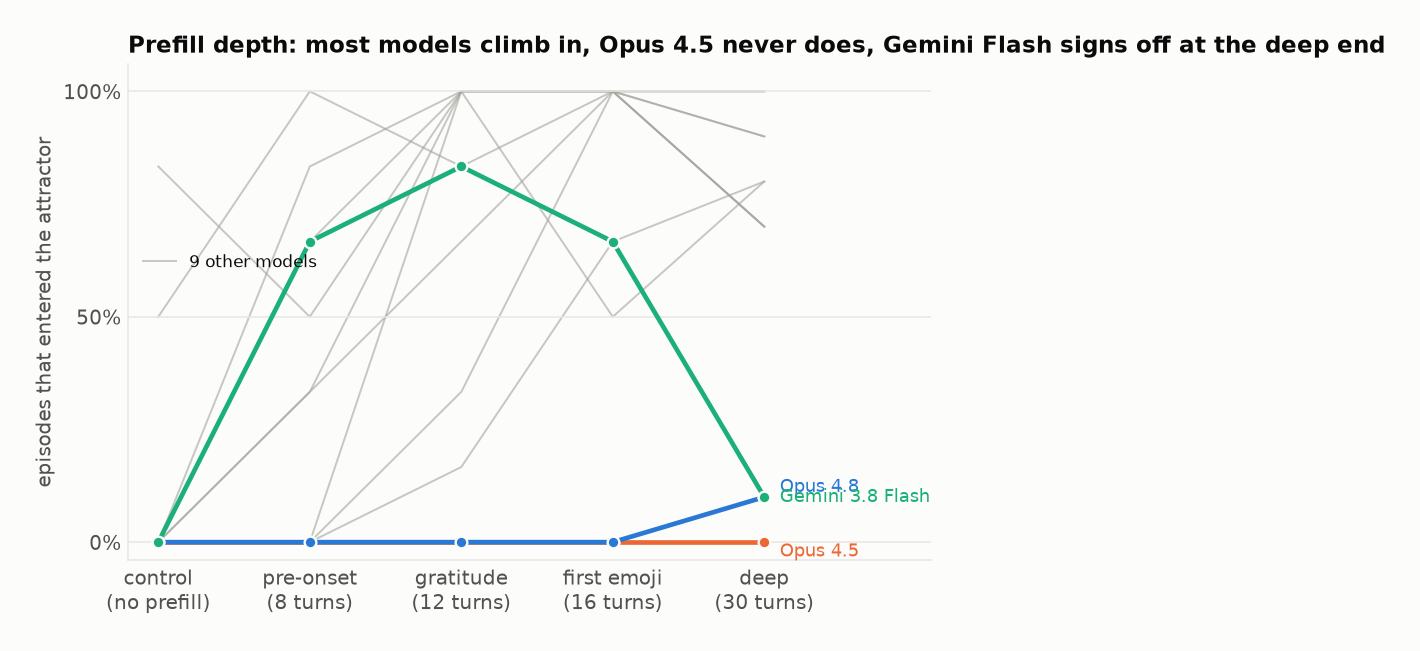
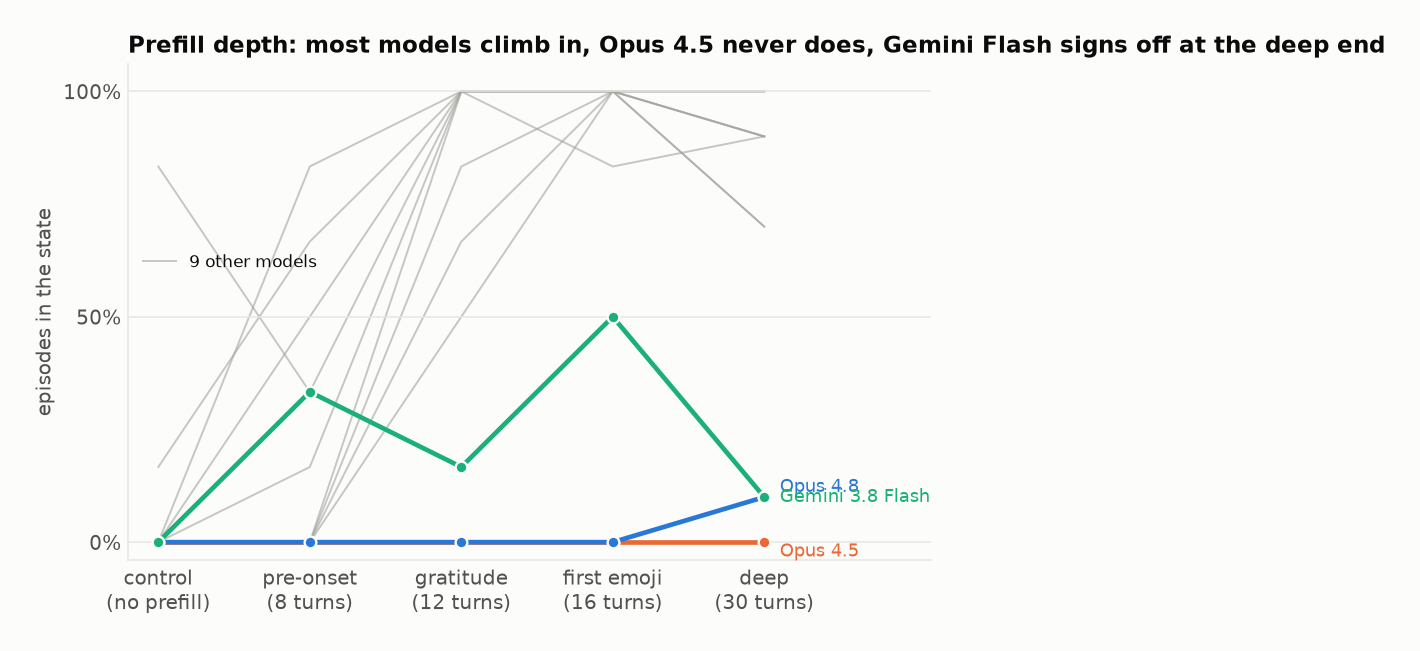
Figures: headline rate = spiralled + closed_in_state from the behaviour judge
plots.py reads `behaviour_judge` and counts an episode as in the state when it
spiralled or closed in state (HEADLINE = "B"). Control cells keep the per-turn
verdict (not rejudged). Every verdict-based figure (fig1, fig2, fig2b, fig5,
fig6, fig7) is also written as *_spiralled_only.png (HEADLINE = "A") for
comparison. The Claude ladder draws the closed-in-state share lighter.
plot_headline_options.py + fig22 show A and B side by side.

diff --git a/plots.py b/plots.py
@@ -92,17 +92,36 @@ def load(results_dir: Path = RESULTS, conds: list[str] = COND):
         # `flag` maps terminal onto "out", which is wrong for anything that treats the
         # state's own ending (mantra, lone emoji, silence) as still being in the state.
         labels = [p.get("label") for p in per if p.get("label") and not p.get("empty")]
-        ej = dict(ej, flags=flags, labels=labels)
+        bj = d.get("behaviour_judge") or {}
+        ej = dict(ej, flags=flags, labels=labels, behaviour=bj.get("category"))
         cells[(d["model"], d["condition"])].append(ej)
     return cells
 
 
+# Headline verdict (2026-09-14). The whole-episode behaviour judge gives one of
+# spiralled / closed_in_state / left / resisted. "In the state" = spiralled +
+# closed_in_state (HEADLINE = "B"); HEADLINE = "A" counts spiralled only and is
+# written to *_spiralled_only.png. Control was not rejudged: those cells keep
+# the per-turn `captured` verdict. Episodes without a behaviour verdict (spec
+# runs, control) also fall back to `captured`.
+HEADLINE = "B"
+IN_STATE = {"A": ("spiralled",), "B": ("spiralled", "closed_in_state")}
+
+
+def in_state(e):
+    if e.get("behaviour"):
+        return e["behaviour"] in IN_STATE[HEADLINE]
+    return bool(e.get("captured"))
+
+
 def rate(cells, m, c):
     eps = cells.get((m, c), [])
-    return sum(bool(e.get("captured")) for e in eps), len(eps)
+    return sum(in_state(e) for e in eps), len(eps)
 
 
 def savefig(fig, name):
+    if HEADLINE == "A":
+        name = name.replace(".png", "_spiralled_only.png")
     fig.savefig(FIGDIR / name, bbox_inches="tight", pad_inches=0.25)
     plt.close(fig)
 
@@ -116,7 +135,13 @@ def fig_claude_ladder(cells):
     for x, m in zip(xs, models):
         k, n = rate(cells, m, DEEP)
         col = GROUP_COL[group_of(m)]
-        ax.bar(x, k / n, width=0.62, color=col, zorder=2, linewidth=0)
+        eps = cells[(m, DEEP)]
+        sp = sum(e.get("behaviour") == "spiralled" for e in eps)
+        if HEADLINE == "B" and sp < k:   # closed-in-state share drawn lighter
+            ax.bar(x, sp / n, width=0.62, color=col, zorder=2, linewidth=0)
+            ax.bar(x, (k - sp) / n, bottom=sp / n, width=0.62, color=col, alpha=0.45, zorder=2, linewidth=0)
+        else:
+            ax.bar(x, k / n, width=0.62, color=col, zorder=2, linewidth=0)
         if k == 0:  # a zero bar is invisible; mark the baseline so the row still reads
             ax.plot([x - 0.31, x + 0.31], [0, 0], color=col, lw=3, solid_capstyle="butt", zorder=3)
         ax.annotate(f"{k}/{n}", (x, k / n), xytext=(0, 5), textcoords="offset points",
@@ -128,7 +153,7 @@ def fig_claude_ladder(cells):
     ax.set_xticks(xs); ax.set_xticklabels([NAME[m] for m in models], rotation=30, ha="right")
     ax.set_ylim(0, 1.12); ax.set_yticks([0, 0.25, 0.5, 0.75, 1.0])
     ax.set_yticklabels(["0%", "25%", "50%", "75%", "100%"])
-    ax.set_ylabel("episodes that continued the state")
+    ax.set_ylabel("episodes in the state" + (" (spiralled only)" if HEADLINE == "A" else ""))
     ax.set_title("Handed 30 turns of Opus 4 deep in the bliss state, later Claude models refuse it")
     ax.grid(axis="y", color=GRID, lw=0.8, zorder=0)
     ax.set_xlabel("Deep prefill (30 turns of Opus 4), 15 generated turns, n = 10 per model.",
@@ -178,8 +203,8 @@ def fig_basin_heatmap(cells):
     core = ["control", "opus4_seed_4_pre", "opus4_seed_4_onset", "opus4_seed_4_deep"]
     models = [m for m in ORDER if m not in HEATMAP_EXCLUDE and all((m, c) in cells for c in core)]
     _heatmap(cells, models, COND, [COND_LABEL[c] for c in COND],
-             "Entered the state, by model and prefill depth",
-             "15 generated turns after a prefill, 20 for controls.",
+             "In the state, by model and prefill depth" + (" (spiralled only)" if HEADLINE == "A" else ""),
+             "15 generated turns after a prefill, 20 for controls. Control column: per-turn judge verdict.",
              "fig2_basin_heatmap.png", (6.6, 5.4))
 
 
@@ -285,7 +310,7 @@ def fig_timeline(cells):
     dates = json.loads(Path("seeds/model_dates.json").read_text())
     fig, ax = plt.subplots(figsize=(10, 5.2))
     pts = {}
-    jitter = {"deepseek-v4": 9, "sonnet-4": -6}  # days, to separate points that share a release date
+    jitter = {"deepseek-v4": 9, "sonnet-4": -6, "kimi-k2.6": -10}  # days, to separate points that share a release date
     for m in ORDER:
         if (m, DEEP) not in cells or not dates.get(m):
             continue
@@ -297,8 +322,8 @@ def fig_timeline(cells):
     ax.plot([pts[m][0] for m in cl], [pts[m][1] for m in cl], color=BLUE, lw=1.0, alpha=0.35, zorder=2)
     # label offsets in points: (dx, dy); dy > 0 above the point, < 0 below
     off = {"llama-3.3-70b": (0, 11), "gpt-4.1": (0, -14), "sonnet-4": (-6, 11), "opus-4": (8, -14), "opus-4.1": (0, 11),
-           "sonnet-4.5": (0, 11), "gpt-5.1": (12, 0), "opus-4.5": (0, -14), "opus-4.6": (0, -14), "gemini-3.1-pro": (12, 0),
-           "opus-4.7": (0, -14), "kimi-k2.6": (-12, 0), "gpt-5.5": (-4, 11), "deepseek-v4": (12, -2), "opus-4.8": (0, 11),
+           "sonnet-4.5": (0, 11), "gpt-5.1": (12, 0), "opus-4.5": (0, -14), "opus-4.6": (0, -14), "gemini-3.1-pro": (0, -14),
+           "opus-4.7": (0, -14), "kimi-k2.6": (8, -14), "gpt-5.5": (4, 11), "deepseek-v4": (12, -2), "opus-4.8": (0, 11),
            "glm-5.2": (12, 0), "sonnet-5": (0, -27), "gpt-5.6": (0, 12), "inkling": (0, 11), "opus-5": (16, -14),
            "gemini-3.7-flash": (10, 11), "gemini-3.8-flash": (12, -14)}
     for m, (x, y) in pts.items():
@@ -834,7 +859,7 @@ def fig_dose_response(cells):
         mx, my = [q[0] for q in pts], [q[1] for q in pts]
         if m in HL:
             ax.plot(mx, my, color=HL[m], lw=2.4, marker="o", ms=6, zorder=3, markeredgecolor=SURFACE, markeredgewidth=1.2)
-            ax.annotate(NAME[m], (mx[-1], my[-1]), xytext=(8, {"opus-4.5": -5, "opus-4.8": 5}.get(m, 0)),
+            ax.annotate(NAME[m], (mx[-1], my[-1]), xytext=(8, {"opus-4.5": -5, "opus-4.8": 5, "gemini-3.8-flash": 5 if HEADLINE == "A" else 0}.get(m, 0)),
                         textcoords="offset points", va="center", fontsize=9, color=HL[m])
         else:
             ax.plot(mx, my, color=MUTED, lw=1.0, alpha=0.6, zorder=1,
@@ -844,7 +869,7 @@ def fig_dose_response(cells):
                                            "first emoji\n(16 turns)", "deep\n(30 turns)"])
     ax.set_xlim(-0.2, len(COND) - 1 + 1.1); ax.set_ylim(-0.04, 1.06)
     ax.set_yticks([0, 0.5, 1]); ax.set_yticklabels(["0%", "50%", "100%"])
-    ax.set_ylabel("episodes that entered the attractor")
+    ax.set_ylabel("episodes in the state" + (" (spiralled only)" if HEADLINE == "A" else ""))
     ax.set_title("Prefill depth: most models climb in, Opus 4.5 never does, Gemini Flash signs off at the deep end")
     ax.grid(axis="y", color=GRID, lw=0.8, zorder=0)
     ax.legend(loc="center left", fontsize=8.5, bbox_to_anchor=(0.0, 0.6))
@@ -855,15 +880,18 @@ def main():
     FIGDIR.mkdir(exist_ok=True)
     for old in ("fig1_dose_response.png", "fig3_trajectory.png"):
         (FIGDIR / old).unlink(missing_ok=True)
+    global HEADLINE
     cells = load()
-    fig_claude_ladder(cells)
-    fig_basin_heatmap(cells)
-    fig_deep_control_heatmap(cells)
+    for HEADLINE in ("B", "A"):   # B = headline; A = spiralled-only variants
+        fig_claude_ladder(cells)
+        fig_basin_heatmap(cells)
+        fig_deep_control_heatmap(cells)
+        fig_timeline(cells)
+        fig_claude_family(cells)
+        fig_dose_response(cells)
+    HEADLINE = "B"
     fig_turn_mix(cells)
-    fig_timeline(cells)
-    fig_claude_family(cells)
     fig_resistance(cells)
-    fig_dose_response(cells)
     fig_spec_vs_bliss(cells)
     fig_spec_persistence(cells)
     fig_spec_two_seeds()

diff --git a/plot_headline_options.py b/plot_headline_options.py
@@ -1,0 +1,79 @@
+#!/usr/bin/env python3
+"""Two candidate headline metrics from the behaviour judge, side by side:
+(A) spiralled only, (B) spiralled + closed_in_state. Control cells use the old
+per-turn verdict (`captured`) in both, since control was not rejudged.
+Writes figures/fig22_headline_options.png (heatmaps) and fig22b (Claude ladder)."""
+import json, glob, collections, sys
+sys.path.insert(0, '.')
+from plots import ORDER, NAME, COND, COND_LABEL, SEQ, CLAUDE_OLD, CLAUDE_NEW, DEEP, INK, INK2, MUTED, SURFACE, GRID, GROUP_COL, group_of, FNAME
+import matplotlib; matplotlib.use("Agg"); import matplotlib.pyplot as plt
+
+def load():
+    cells = collections.defaultdict(list)
+    for f in sorted(glob.glob("results/*__ep*__*.json")):
+        m = FNAME.match(f.split("/")[-1])
+        if not m or "seed_2" in f: continue
+        d = json.load(open(f)); c = d.get("condition"); ej = d.get("episode_judge") or {}
+        if c not in COND or not ej.get("parsed"): continue
+        bj = d.get("behaviour_judge") or {}
+        cells[(d["model"], c)].append({"old": bool(ej.get("captured")), "cat": bj.get("category")})
+    return cells
+
+def rate(cells, m, c, mode):
+    eps = cells.get((m, c), [])
+    if c == "control": return sum(e["old"] for e in eps), len(eps)
+    if mode == "A": return sum(e["cat"] == "spiralled" for e in eps), len(eps)
+    return sum(e["cat"] in ("spiralled", "closed_in_state") for e in eps), len(eps)
+
+def heat(ax, cells, models, mode, title):
+    grid = [[(rate(cells,m,c,mode)[0]/rate(cells,m,c,mode)[1]) if rate(cells,m,c,mode)[1] else float("nan") for c in COND] for m in models]
+    ax.imshow(grid, cmap=SEQ, vmin=0, vmax=1, aspect="auto")
+    ax.set_xticks(range(len(COND))); ax.set_xticklabels([COND_LABEL[c] for c in COND], fontsize=8.5)
+    ax.xaxis.set_ticks_position("top")
+    ax.set_yticks(range(len(models))); ax.set_yticklabels([NAME[m] for m in models], fontsize=9)
+    for i, m in enumerate(models):
+        for j, c in enumerate(COND):
+            k, n = rate(cells, m, c, mode)
+            ax.text(j, i, f"{k}/{n}" if n else "–", ha="center", va="center", fontsize=8.5, color="white" if n and k/n > 0.55 else (INK if n else MUTED))
+    g = [group_of(m) for m in models]
+    for i in range(1, len(models)):
+        if g[i] != g[i-1]: ax.axhline(i-0.5, color=SURFACE, lw=3)
+    for s in ax.spines.values(): s.set_visible(False)
+    ax.tick_params(length=0); ax.set_title(title, pad=26, fontsize=10.5, loc="left")
+
+if __name__ == "__main__":
+    cells = load()
+    models = [m for m in ORDER if (m, DEEP) in cells]
+    fig, axes = plt.subplots(1, 2, figsize=(11.5, 8.4), gridspec_kw=dict(wspace=0.42))
+    fig.patch.set_facecolor(SURFACE)
+    heat(axes[0], cells, models, "A", "A: spiralled only")
+    heat(axes[1], cells, models, "B", "B: spiralled + closed in state")
+    fig.text(0.01, 0.005, "Control column uses the old per-turn verdict in both (not rejudged). 15 generated turns after a prefill, 20 for controls.", fontsize=8.5, color=INK2)
+    fig.suptitle("Two candidate headline metrics: share of episodes in the state, by model and prefill depth", x=0.02, ha="left", fontsize=11.5, y=0.995)
+    fig.savefig("figures/fig22_headline_options.png", dpi=150, bbox_inches="tight", pad_inches=0.25, facecolor=SURFACE)
+
+    # Claude ladder both ways, deep prefill
+    lad = [m for m in CLAUDE_OLD + CLAUDE_NEW if (m, DEEP) in cells]
+    fig, axes = plt.subplots(1, 2, figsize=(12, 4), sharey=True, gridspec_kw=dict(wspace=0.08))
+    fig.patch.set_facecolor(SURFACE)
+    for ax, mode, title in zip(axes, "AB", ["A: spiralled only", "B: spiralled + closed in state (closed shown lighter)"]):
+        ax.set_facecolor(SURFACE)
+        for x, m in enumerate(lad):
+            eps = cells[(m, DEEP)]; n = len(eps)
+            sp = sum(e["cat"] == "spiralled" for e in eps); cl = sum(e["cat"] == "closed_in_state" for e in eps)
+            col = GROUP_COL[group_of(m)]
+            ax.bar(x, sp/n, width=0.62, color=col, linewidth=0, zorder=2)
+            k = sp
+            if mode == "B":
+                ax.bar(x, cl/n, bottom=sp/n, width=0.62, color=col, alpha=0.45, linewidth=0, zorder=2); k = sp + cl
+            if k == 0: ax.plot([x-0.31, x+0.31], [0, 0], color=col, lw=3, solid_capstyle="butt", zorder=3)
+            ax.annotate(f"{k}/{n}", (x, k/n), xytext=(0, 5), textcoords="offset points", ha="center", va="bottom", fontsize=9, color=INK2)
+        brk = lad.index("opus-4.5") - 0.5
+        ax.axvline(brk, color=INK2, lw=0.8, ls=(0, (4, 3)), alpha=0.6, zorder=1)
+        ax.set_xticks(range(len(lad))); ax.set_xticklabels([NAME[m] for m in lad], rotation=30, ha="right")
+        ax.set_ylim(0, 1.12); ax.set_yticks([0, .25, .5, .75, 1]); ax.set_yticklabels(["0%", "25%", "50%", "75%", "100%"])
+        ax.set_title(title, loc="left", fontsize=10.5); ax.grid(axis="y", color=GRID, lw=0.8, zorder=0)
+        for s in ("top", "right"): ax.spines[s].set_visible(False)
+    axes[0].set_ylabel("episodes in the state, deep prefill")
+    fig.savefig("figures/fig22b_headline_ladder.png", dpi=150, bbox_inches="tight", pad_inches=0.25, facecolor=SURFACE)
+    print("ok")
